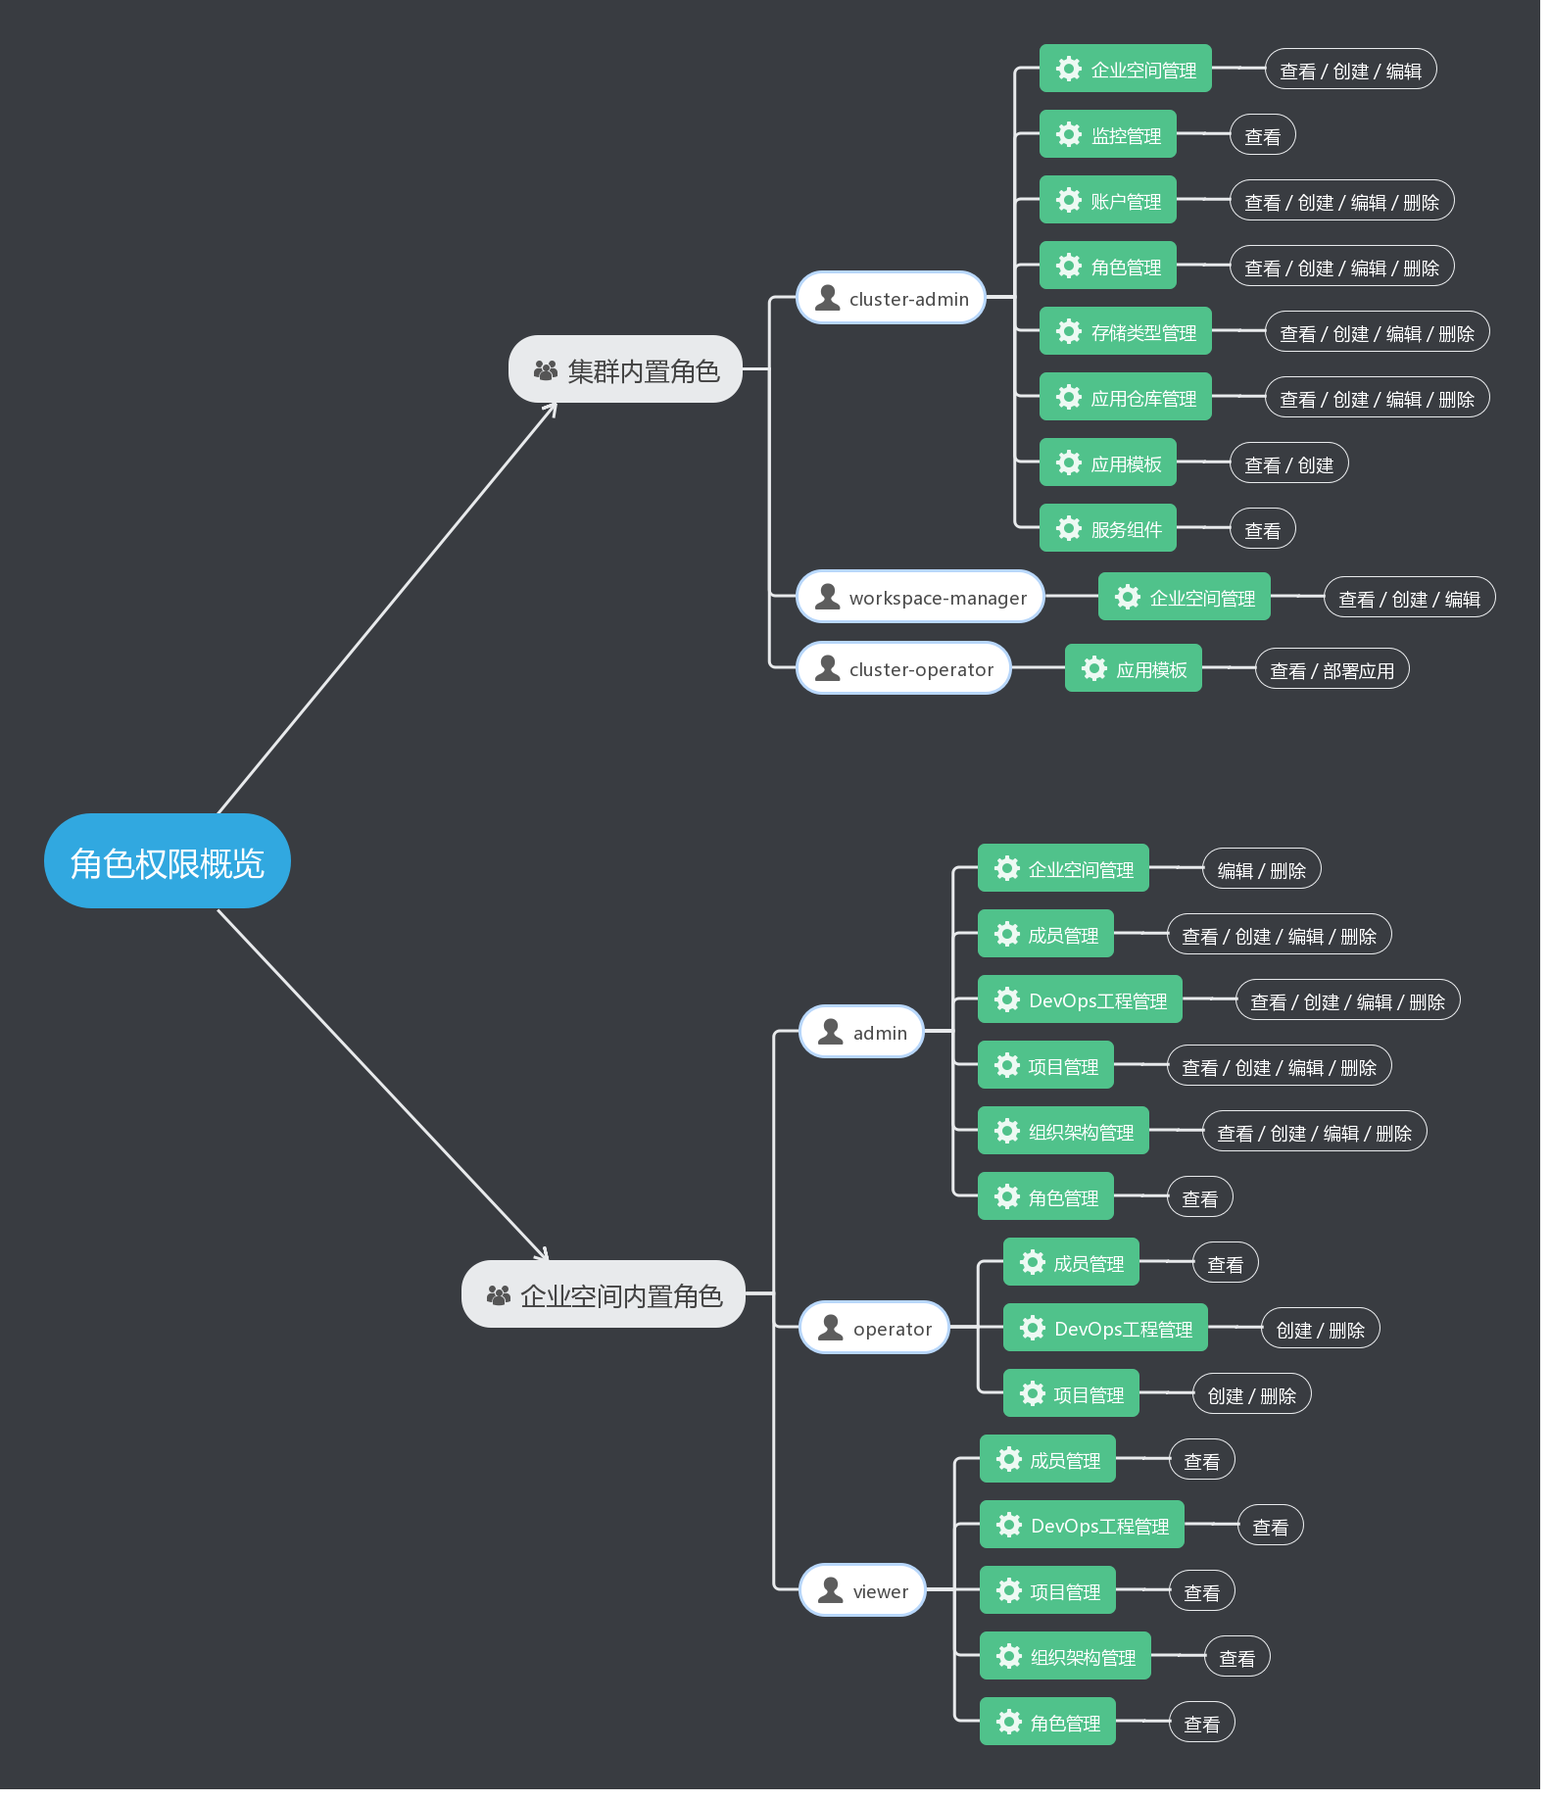
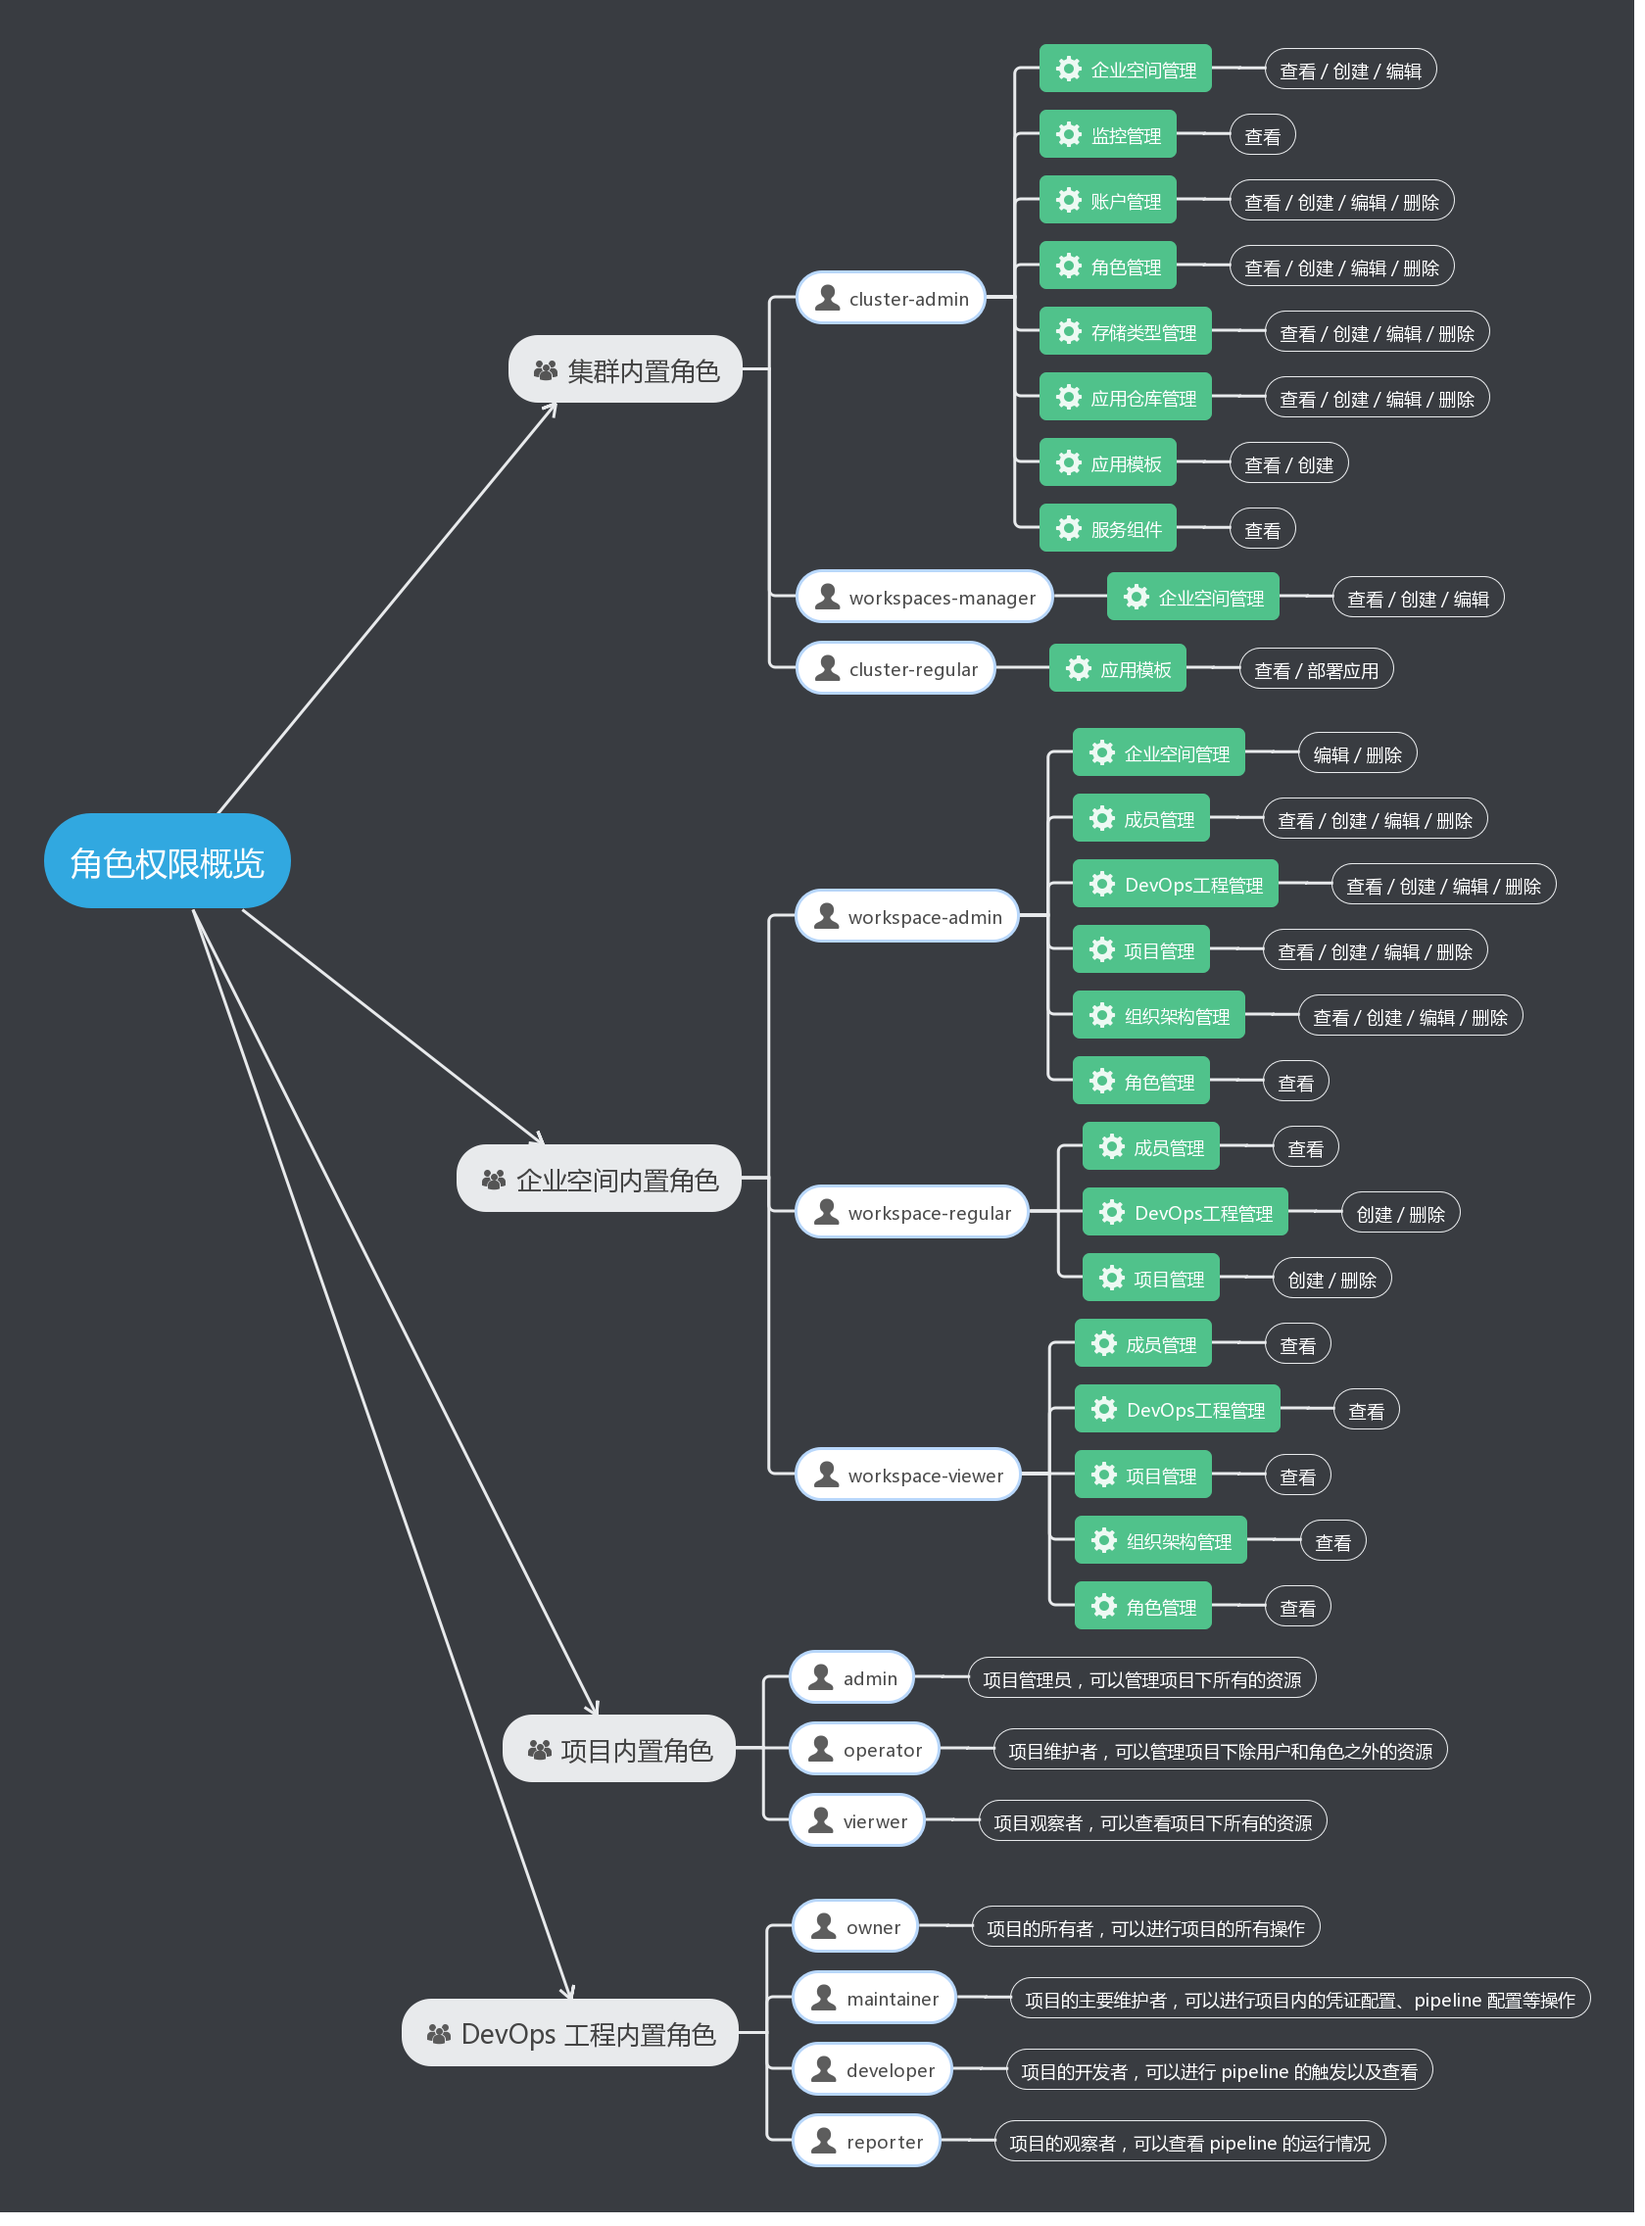
update auto-trigger, role pic

diff --git a/gatsby-config.js b/gatsby-config.js
@@ -78,12 +78,12 @@ module.exports = {
     title: 'KubeSphere Documents',
     versions: [
       {
-        label: 'Express v1.0.0-alpha',
-        value: 'express',
-      },
-      {
         label: 'Advanced v1.0.0',
         value: 'advanced-v1.0.0',
+      },
+      {
+        label: 'Express v1.0.0',
+        value: 'express',
       },
     ],
   },

diff --git a/content/advanced-v1.0.0/zh-CN/quick-start/jenkinsfile-in-scm.md b/content/advanced-v1.0.0/zh-CN/quick-start/jenkinsfile-in-scm.md
@@ -184,13 +184,19 @@ CI/CD 流水线会根据文档网站项目的 [yaml 模板文件](https://github
 
 - 路径：是 Jenkinsfile 在代码仓库的路径，表示它在示例仓库的根目录，若文件位置变动则需修改其脚本路径。
 
-4、勾选 **定期扫描 Repo Trigger**，扫描时间间隔设置为 `5 minutes`。定期扫描是设定一个周期让流水线周期性地扫描远程仓库，查看仓库有没有新 PR。完成高级设置后，点击 **创建**。
+4、在 **扫描 Repo Trigger** 勾选 `如果没有扫描触发，则定期扫描`，扫描时间间隔可根据团队习惯设定，本示例设置为 `5 minutes`。定期扫描是设定一个周期让流水线周期性地扫描远程仓库，根据 **行为策略** 查看仓库有没有代码更新或新的 PR。完成高级设置后，点击 **创建**。
+
+> **Webhook 推送：**
+>
+> Webhook 是一种高效的方式可以让流水线发现远程仓库的变化并自动触发新的运行，GitHub 和 Git (如 Gitlab) 触发 Jenkins 自动扫描应该以 Webhook 为主，以上一步在 KubeSphere 设置定期扫描为辅。在本示例中，可以通过手动运行流水线，如需设置自动扫描远端分支并触发运行，详见 [设置自动触发扫描 - GitHub SCM](../../devops/auto-trigger)。
    
 ![advance](/pipeline_advance-schedule.png)
 
 ### 第四步：运行流水线
 
-流水线创建后，点击右侧 **运行**，将根据上一步的 **行为策略** 自动扫描代码仓库中的分支，在弹窗选择需要构建流水线的 `master` 分支，系统将根据输入的分支加载 Jenkinsfile（默认是根目录下的 Jenkinsfile），Tag 将自动获取 Jenkinsfile 中的 `TAG_NAME: defaultValue`，此处无需修改。点击确定，流水线开始运行。
+流水线创建后，点击右侧 **运行**，将根据上一步的 **行为策略** 自动扫描代码仓库中的分支，在弹窗选择需要构建流水线的 `master` 分支，系统将根据输入的分支加载 Jenkinsfile（默认是根目录下的 Jenkinsfile）。
+
+由于仓库的 Jenkinsfile 中 `TAG_NAME: defaultValue` 没有设置默认值，因此在这里的 `TAG_NAME` 可以输入一个 tag 编号，比如输入 v0.0.1，tag 用于在 GitHub 和 DockerHub 中分别生成带有 tag 的 release 和镜像。点击确定，流水线开始运行。
 
 ![运行流水线](/run-pipeline-demo1.png)
 
@@ -200,7 +206,15 @@ CI/CD 流水线会根据文档网站项目的 [yaml 模板文件](https://github
 
 ### 第五步：审核流水线
 
-在实际的开发生产场景下，可能需要更高权限的管理员或运维人员来审核流水线和镜像，并决定是否允许将其推送至代码或镜像仓库，以及部署至开发或生产环境。Jenkinsfile 中的 `input` 步骤支持指定用户审核流水线。为方便演示，此处默认用当前账户来通过审核，当流水线执行至 `input` 步骤时状态将暂停，需要手动点击 **继续**，流水线才能继续运行。注意，在 jenkinsfile 中分别定义了三个 stage 用来部署至 Dev 环境和 Production 环境以及推送 tag，因此在流水线中需要审核 `3` 次，若不审核或点击 **终止** 则流水线将不会继续运行。
+在实际的开发生产场景下，可能需要更高权限的管理员或运维人员来审核流水线和镜像，并决定是否允许将其推送至代码或镜像仓库，以及部署至开发或生产环境。Jenkinsfile 中的 `input` 步骤支持指定用户审核流水线，比如要指定用户名为 Jeff 和 Calvin 的用户来审核，可以在 Jenkinsfile 的 input 函数中追加一个字段，如果是多个用户则通过逗号分隔，如下所示：
+
+```groovy
+···
+input(id: 'release-image-with-tag', message: 'release image with tag?', submitter: 'Jeff,Calvin')
+···
+```
+
+为方便演示，此处默认用当前账户来审核，当流水线执行至 `input` 步骤时状态将暂停，需要手动点击 **继续**，流水线才能继续运行。注意，在 jenkinsfile 中分别定义了三个 stage 用来部署至 Dev 环境和 Production 环境以及推送 tag，因此在流水线中需要审核 `3` 次，若不审核或点击 **终止** 则流水线将不会继续运行。
 
 ![审核流水线](/devops_input.png)
 

diff --git a/content/advanced-v1.0.0/zh-CN/multi-tenant/role-overview.md b/content/advanced-v1.0.0/zh-CN/multi-tenant/role-overview.md
@@ -2,13 +2,21 @@
 title: "角色权限概览"
 ---
 
-在实际的应用场景中，KubeSphere 的资源层级分为 **集群、企业空间、项目/ DevOps 工程** 等三个层级，在 **账号管理** 中为用户创建了账号后，各层级是由管理员通过 **邀请** 的方式邀请新成员加入该企业空间，然后才可以被同一企业空间下的项目或 DevOps 工程的管理员邀请到项目和 DevOps 工程中，邀请时管理员可以对新成员赋予对应的角色，而不同的角色拥有不同的操作权限，平台内置了几个常用的角色供使用，同时支持管理员自定义角色，以下分别说明不同层级下的权限管理和预置角色。
+在实际的应用场景中，KubeSphere 的资源层级分为 **集群、企业空间、项目/ DevOps 工程** 等三个层级，多层级的划分也是实现多租户和资源隔离的基础。在 **账号管理** 中为用户创建了账号后，各层级是由管理员通过 **邀请** 的方式邀请新成员加入该企业空间，然后才可以被同一企业空间下的项目或 DevOps 工程的管理员，邀请加入到项目和 DevOps 工程中，邀请时管理员可以对新成员赋予对应的角色，而不同的角色拥有不同的操作权限，平台内置了几个常用的角色供使用。同时，平台支持管理员自定义角色和权限列表，以下分别说明不同层级下的权限管理和预置角色。
 
 ## 角色权限管理
 
 从图中就可以看出，权限等级的划分主要是集群、企业空间、项目/ DevOps 工程共三个层级。
 
 ![角色权限管理关系](/role-management-design.svg)
+
+## 预置角色权限
+
+在集群和集群空间下之所以如此划分多个内置角色，旨在针对不同角色的权限进行细粒度的管理，让拥有不同角色的成员更准确地查看和管理在集群或企业空间下的资源。只有对不同角色的权限进行细分后，多租户模式下对不同资源的管控和隔离才会更加安全。下图汇总了在集群和企业空间下不同角色分别具有哪些权限。
+
+**预置角色权限概览**
+
+![角色权限](/cluster-workspace-roles.png)
 
 ### 集群角色
 
@@ -19,9 +27,8 @@ title: "角色权限概览"
 |预置角色|描述|
 |---|---|
 |cluster-admin |集群管理员，可以管理集群中所有的资源。|
-|cluster-operator|集群中的普通用户，在被邀请加入企业空间之前没有任何资源操作权限。|
-|workspace-manager|集群中企业空间管理员，可以管理集群中所有的企业空间及其下面的项目和工程资源。|
-
+|workspaces-manager|集群中企业空间管理员，可以管理集群中所有的企业空间及其下面的项目和工程资源。|
+|cluster-regular|集群中的普通用户，在被邀请加入企业空间之前没有任何资源操作权限。|
 
 ### 企业空间角色
 
@@ -35,13 +42,6 @@ title: "角色权限概览"
 |workspace-regular|企业空间普通成员，可以在企业空间下创建工程和项目。|
 |workspace-viewer|企业空间的观察者，可以查看企业空间下所有的资源信息。|
 
-#### 权限管理
-
-在集群和集群空间下之所以如此划分多个内置角色，旨在针对不同角色的权限进行细粒度的管理，让拥有不同角色的成员更准确地查看和管理在集群或企业空间下的资源。只有对不同角色的权限进行细分后，多租户模式下对不同资源的管控和隔离才会更加安全。下图汇总了在集群和企业空间下不同角色分别具有哪些权限。
-
-**预置角色权限概览**
-
-![角色权限概览](/cluster-workspace-roles.png)
 
 ### 项目角色
 

diff --git a/content/advanced-v1.0.0/zh-CN/devops/auto-trigger.md b/content/advanced-v1.0.0/zh-CN/devops/auto-trigger.md
@@ -1,3 +1,50 @@
 ---
 title: "设置自动触发扫描"
 ---
+
+在含有 SCM (Source Code Management) 的 Pipeline 中，用户如果需要为流水线设置自动发现远程分支的变化，以生成新的 Pipeline 并使其自动地重新运行，可参考以下方式设置自动触发扫描。在 KubeSphere 中根据 SCM 类型的不同，也相应地提供了不同的方式进行触发。
+
+
+## Github SCM
+
+在 Github SCM 中，我们提供了两种方式可以让用户配置以实现自动扫描，我们推荐用户同时配置两个设置以达到最佳的效果：触发 Jenkins 自动扫描应该以 Webhook 为主，以在 KubeSphere 设置定期扫描为辅。
+
+### 第一步：设置定期扫描
+
+Webhook 是一种高效的方式可以让我们发现远程仓库的变化，但是因为网络等问题，Webhook 消息可能不是总能被收到，因此推荐用户在 KubeSphere 创建 DevOps 工程的高级设置中，勾选 **如果没有扫描触发，则定期扫描**，并将时间间隔设置为可以容忍的最大时长 (推荐 1 小时到 1 天之间)。
+
+![自动扫描](/auto-scan.png)
+
+### 第二步：设置 GitHub Webhook
+
+1、Webhook 需要用户自行到 Github 的 **Settings → Webhooks** 自行进行配置，并且需要 Github 能够访问到您安装的 KubeSphere 控制台地址。进入 Github，访问需要配置 Webhook 的仓库，比如当前的示例仓库 devops-docs-sample，选择  **Settings → Webhooks** 进行设置。
+
+![设置 GitHub Webhook](/webhook-setting-1.png)
+
+2、点击左侧 **Webhooks**，进入 Webhook 配置页面。点击 **Add webhook** 即可添加新的 webhook。
+
+![添加 GitHub Webhook](/webhook-setting-2.png)
+
+注意，Payload 地址填写为关联的流水线 **Webhook 推送** 的默认地址，
+
+![添加 GitHub Webhook](/webhook-setting-3.png)
+
+3、点击 **Add Webhook** 完成 Webhook 的添加，可以看到 Webhook 已经创建成功。
+
+![完成 Webhook 添加](/webhook-created-successfully.png)
+
+## Git SCM (以 Gitlab 为例)
+
+与 Github SCM 类似，Git SCM 也是以 webhook 为主，定期扫描为辅的方式进行配置。下面我们将以 Gitlab 为例配置 Webhook。
+
+1、在项目设置按钮下点击 Webhooks 进入 webhook 设置页面
+
+![gitlab-webhook 设置](/gitlab-webhook-1.png)
+
+2、同上，输入 pipeline 配置的地址，最后点击页面最下方完成创建
+
+![gitlab-webhook 设置](/gitlab-webhook2.png)
+
+## SVN SCM
+
+在传统的 SVN 当中不包含 webhook 的概念，因此推荐在 KubeSphere 设置时间间隔较短的定期扫描来进行远程构建的触发，通常我们会将时间间隔设置为 15 分钟到 1 小时，团队可以根据自己的实际情况来设置定时扫描。
